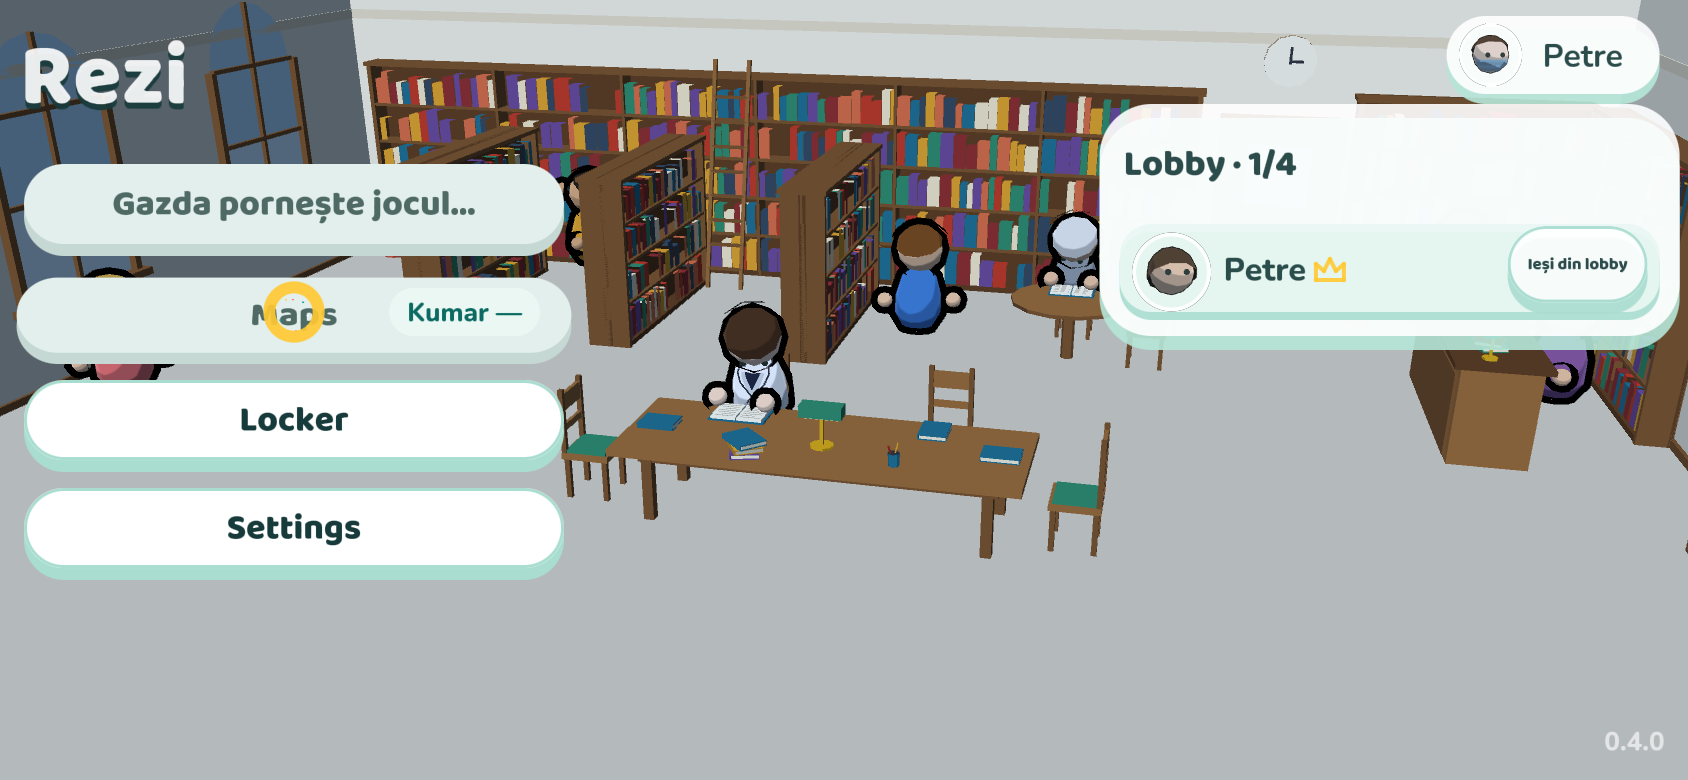
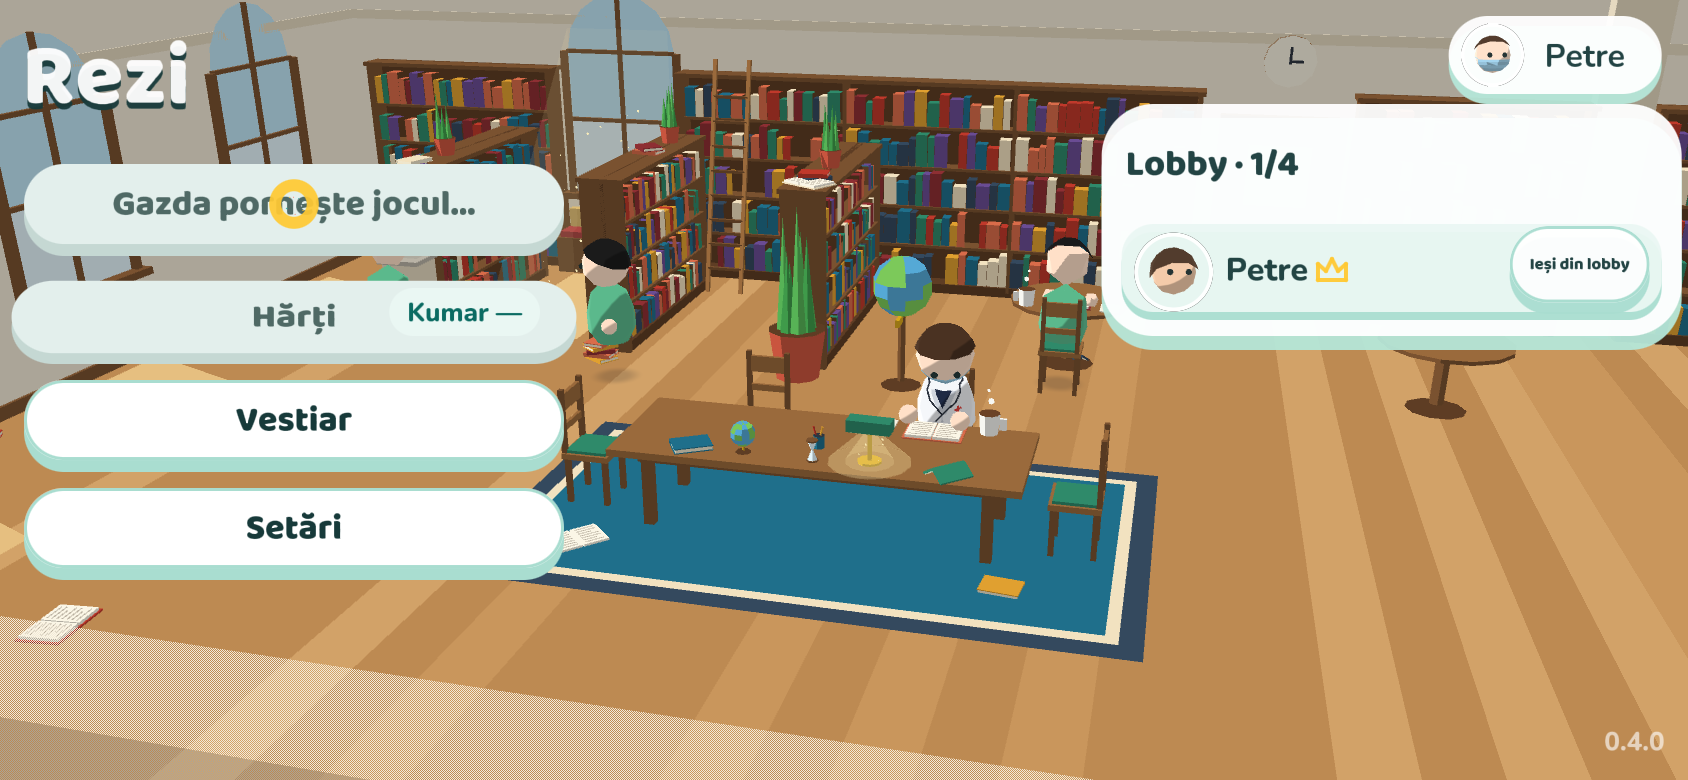
lib1 step 7: front-room fade judged at the resting eye height on a trip; reseat only on a change; pictures (step7, menu, move); CLAUDE.md

diff --git a/game/autotest_library.h b/game/autotest_library.h
@@ -6,9 +6,16 @@
  *      theta < release_theta (after the reach), both hands at
  *      rest at u = 1; screenshot library_turn at u = 0.5 (--lib-closeup)
  *   3  20 turns: every read in between inside study.read_s
- *   4  a friend joins (--lib-demo-join, at 1 s): appears outside the door, the door opens past 1.5 rad as it
- *      passes, seated within 6 s with its book open; screenshot library_joined
- *   5  it leaves (at 10 s): stands, walks out, despawns, the door is shut (< 0.05 rad) within 2 s after
+ *   4  a friend joins (the demo lobby, AutotestOut.lib_demo): it starts at seat 0's stand point of its own table (§8), never
+ *      by a door to the outside, faster than walking only while off screen (15.8), seated within 12 s with its book open;
+ *      screenshot library_joined. Reduse: seated directly
+ *   5  it leaves: packs, stands, walks back towards its own table, removed only out of view (or at its table); Reduse: at once
+ *  15.7 (stages 20, 21) I join hostA's lobby (mateB in it): its table dressed from its seed and its members seated at once, the
+ *      camera still until my hero is off screen, then the pan with no jump (the trip's own clock), no blank frame, seated
+ *      within 12 s (pictures library_travel_out / _pan / _arrive); Ieși: the same back, my own table unchanged, the readers
+ *      left behind removed only out of view. Reduse: seated at once under the cross-dissolve
+ *  15.9 (stage 22) a plane out leaves on the side of the friend's table; a plane in lands in front of my seat (2 cm), the hero
+ *      glances, it shrinks away when its panel closes (library_plane_out / _in / _landed)
  *   6  the menu opening with three friends already in the lobby: all seated on that frame (a scratch copy)
  *   7  Maps (a tap on the row), twice: the first takes the pictures, the second (none: a capture stalls a frame) is
  *      timed; the move ends on the map camera at duration_s +- 1 frame, the camera never

diff --git a/game/menu_library.c b/game/menu_library.c
@@ -666,7 +666,9 @@ static float bay_hide(const MenuLibrary *L, int b)
     if (e.Z < mid) {
         return 0.0f;
     }
-    const float k = mg_clampf((e.Y - L->sc.room.Y) / 2.0f, 0.0f, 1.0f);
+    /* a trip's widening (cam_zoom) lifts the eye a little: judged at the resting height, so the front rooms do not dither in mid-pan */
+    const float ey = L->focus.Y + (e.Y - L->focus.Y) / fmaxf(L->cam_zoom, 1.0f);
+    const float k = mg_clampf((ey - L->sc.room.Y) / 2.0f, 0.0f, 1.0f);
     return f * (1.0f - k * k * (3.0f - 2.0f * k));
 }
 
@@ -725,8 +727,9 @@ static void members_reseat(MenuLibrary *L)
 {
     for (int i = 0; i < LIB_SEATS; i++) {
         LibMember *mb = &L->seat[i];
-        if (mb->state == LM_EMPTY || mb->has_dest || (mb->bay != L->table_bay && mb->state != LM_WALK_IN)) {
-            continue;
+        if (mb->state == LM_EMPTY || mb->has_dest || (mb->bay != L->table_bay && mb->state != LM_WALK_IN) ||
+            (mb->bay == L->table_bay && mb->seat_k == L->seat_phys[i] && mb->cover == (L->dress_ok ? L->dress[L->table_bay].cover[mb->seat_k] : 0))) {
+            continue; /* nothing changed under it */
         }
         const HMM_Vec2 stand = mb->at.stand;
         member_assign(L, i);

diff --git a/CLAUDE.md b/CLAUDE.md
@@ -651,6 +651,23 @@ Instruments (iOS) and Android GPU Inspector or Snapdragon Profiler.
   changes: docs/LIB1.md. Tests:
   `--autotest library` (`tools/library_test.sh`: + Reduse, a fresh install, the free rect on the iPhone presets and the iPad), the
   two-instance join / kick in `tools/friends2_test.sh` (role ma), perf scenario `menu_to_map` (the move looped).
+- Lobbies in motion (step 7, §8, `travel` in the scene JSON): my own table is my seed's bay (`lib_table_bay`, taken when the menu
+  opens; `--lib-bay` overrides), a lobby I join sits at its host's seed's bay (the next bay if that is mine). `menu_library_lobby(rows,
+  snap, instant)` each menu frame: a table change is a trip for my hero (pack, stand, walk; `LibTravel`: the camera waits until the
+  hero is off screen by the real projection (|x| > `offscreen_at`), then pans (`pan_s_per_bay`, max `pan_s_max`, quintic, distance
+  x (1 + `zoom_out` sin(pi e))), the hero walks at `offscreen_speed` only while off screen), the new table dressed and its members
+  seated at once; the members I leave stay seated (`ghost`, slots 4..7) until they are out of view, their table re-dressed only off
+  screen. Member slots: 0 me, 1..3 the lobby (`tseats`), 4..7 people leaving; every member carries its own seat copy (`at`, `bay`,
+  `seat_k`, `cover`) and `home` (seat 0's stand point at its own table). A friend joining walks from its home, a friend leaving walks
+  back there and is removed off screen and > `despawn_beyond_m` from the camera's focus, or on arrival (faded if in view). The front
+  rooms' fade follows the camera's framing point (`focus`), not the lobby's table. Maps, a full-screen page (Settings, Friends, the
+  Locker) and the game loading finish every move (`menu_library_travel_finish`); Reduse: the trip happens at once under the 300 ms
+  cross-dissolve (`dissolve_armed`: the frame is captured first), friends are seated / removed directly (faded in view). Paper planes
+  (`LibPlane`): an invite or friend request sent (`Lobby.invites_sent`, `Friends.requests_sent`; the RPC is not delayed) throws one
+  from my seat (sent from the Friends page: once back on the menu, within 30 s) towards the friend's table's side; an incoming
+  invite's panel shows at once and a plane lands in front of my seat (the hero glances; it shrinks after `rest_s` or when the panel
+  closes); the cat watches a flying one. `--autotest library` 15.7-15.9 (stages 20-22, `AutotestOut.lib_demo` / `lib_plane`; pictures
+  docs/autotest/library/step7/); the camera's speed on a trip is judged by the trip's own clock (`LibTravel.cam_clock`).
 
 ## Book content (BOOK-1)
 
